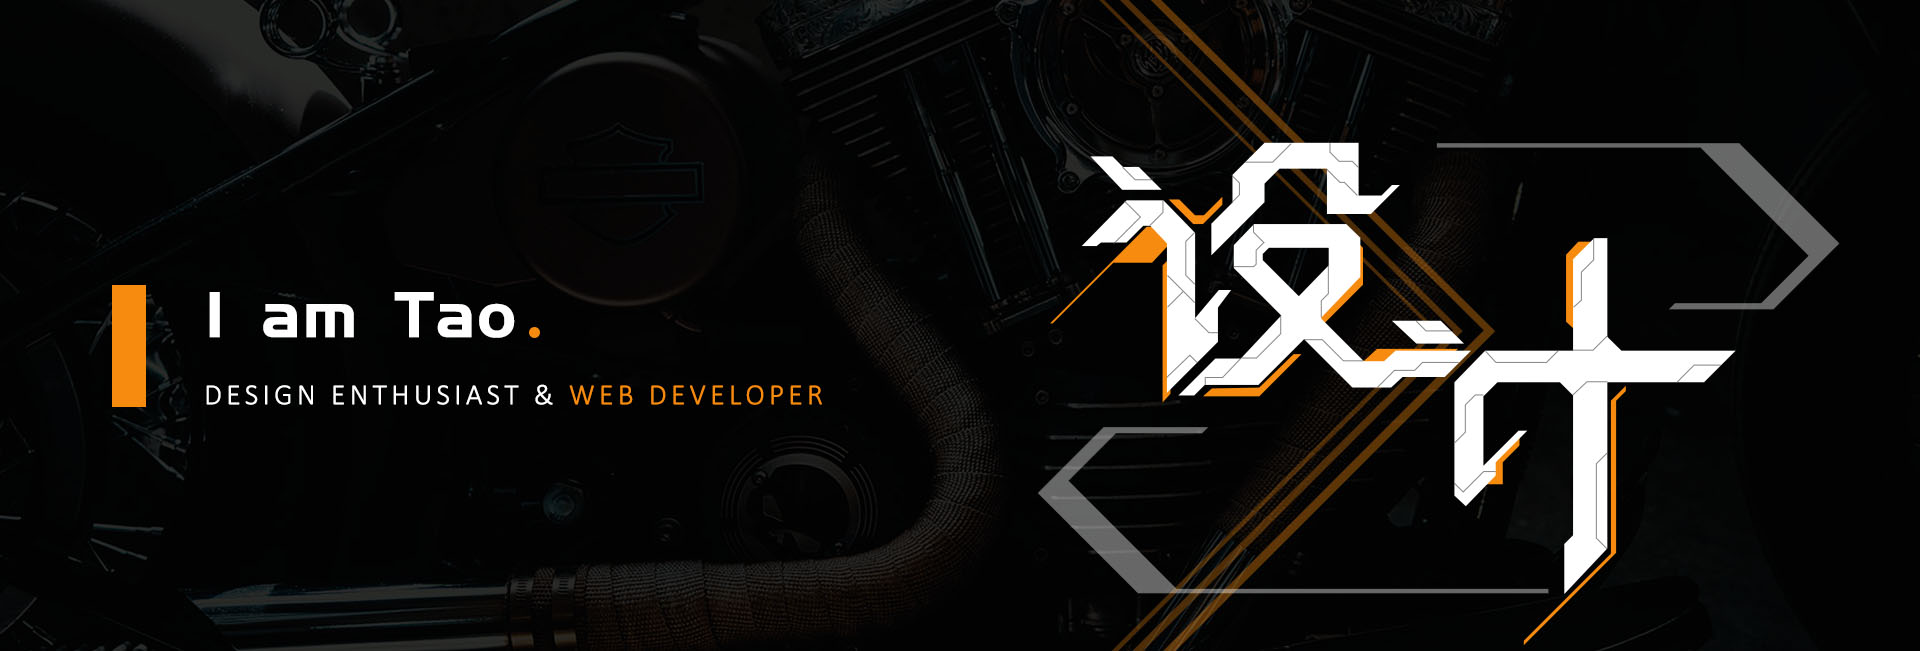
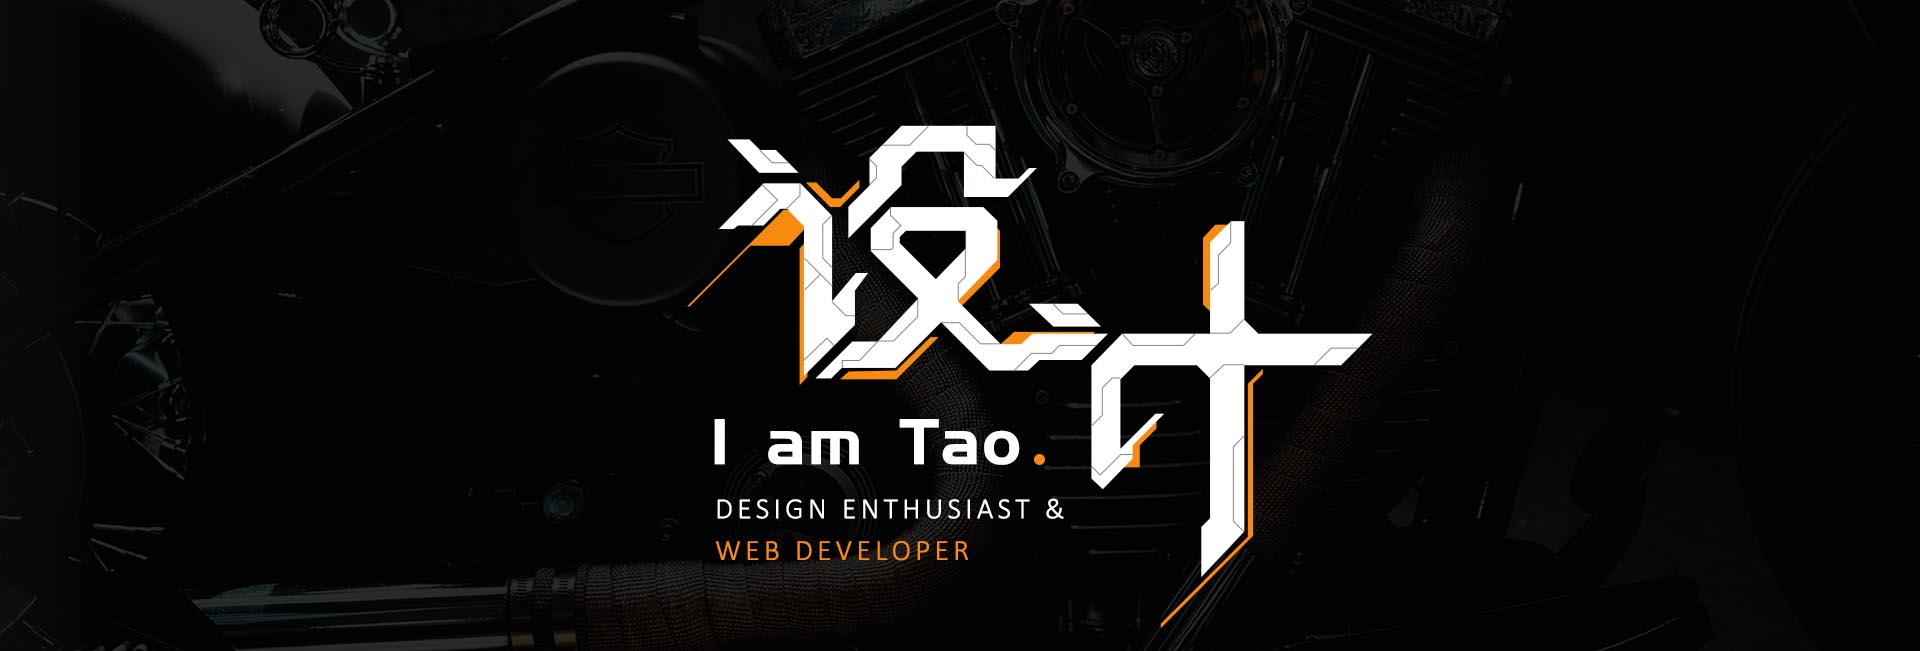
修复图片央视

diff --git a/src/containers/Work/style/index.less b/src/containers/Work/style/index.less
@@ -5,7 +5,8 @@
     overflow: hidden;
     position: relative;
     background-color: #000000;
-    text-align: center;
+    display: flex;
+    justify-content: center;
     & > img {
       height: 510px;
 
@@ -93,9 +94,9 @@
 @media screen and (min-width: 360px)  {
   #work {
     .banner {
-      height: 140px;
+      height: 220px;
       & > img {
-        height: 140px;
+        height: 220px;
       }
       .inner {
         line-height: 200px;
@@ -147,9 +148,9 @@
 @media screen and (min-width: 480px)  {
   #work {
     .banner {
-      height: 220px;
+      height: 270px;
       & > img {
-        height: 220px;
+        height: 270px;
       }
       .inner {
         line-height: 250px;
@@ -174,9 +175,9 @@
 @media screen and (min-width: 640px)  {
   #work {
     .banner {
-      height: 230px;
+      height: 295px;
       & > img {
-        height: 230px;
+        height: 295px;
       }
       .inner {
         line-height: 240px;
